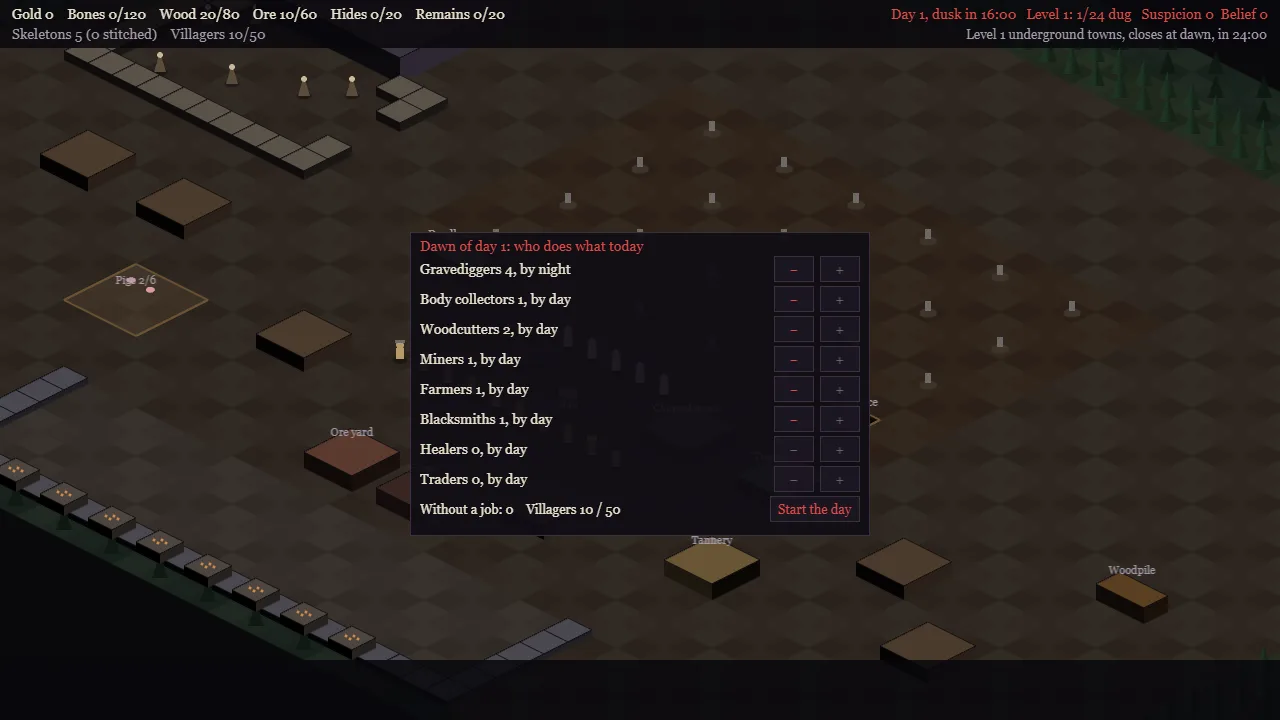
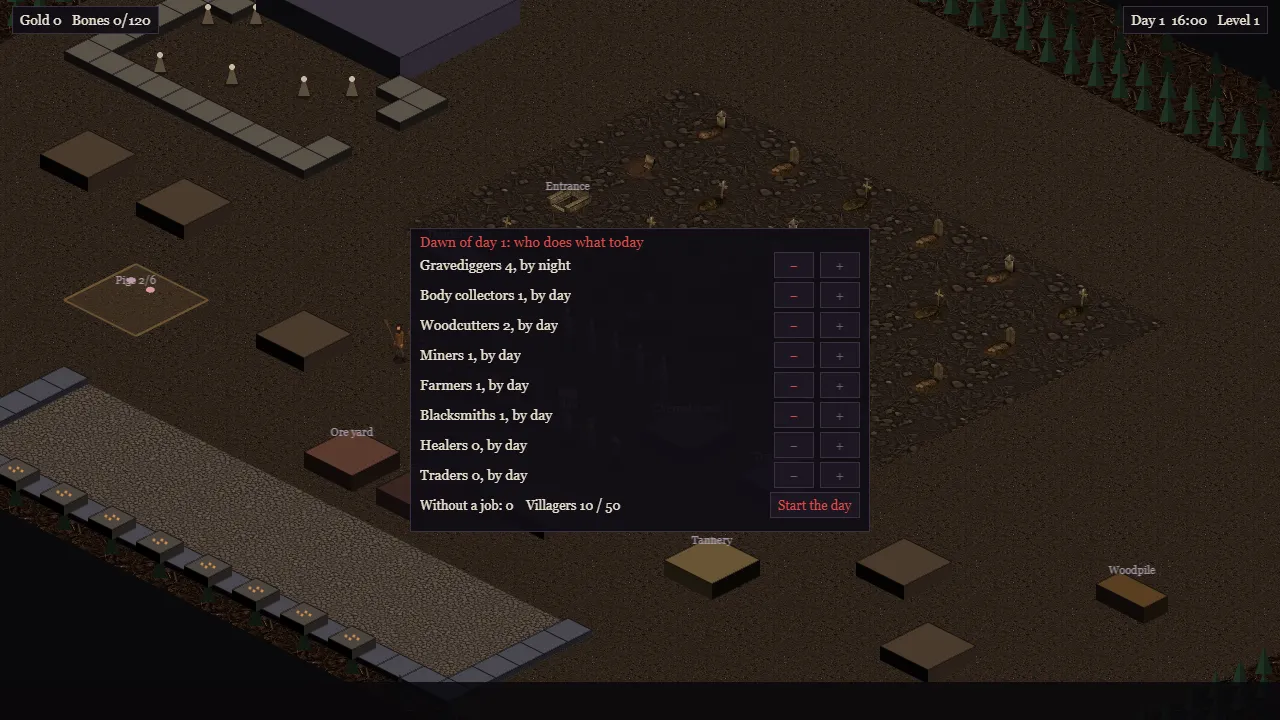
Add Assimilate to the games and bring the other three up to date
Assimilate, the new physics merge puzzler, gets a card on /projects between
The Village of Suffering and Life Detected, a teaser tile on the home page
and a footer link, with its own accent colour. It's a portrait game, so the
cover sets three captures of one live run side by side at 16:9; the gallery
adds a crop of the fuse twist and a labelled sheet of the fifteen tiers,
captioned as placeholder art.

Tethered Darkness now plays from start to finish: a new status, features
for its six regions and five endings, the route tool in the tech, and three
late-game shots (the Crowned Furnace, the Drowned Church, the Bell) in place
of the title screen, the marsh path and the churchyard.

The Village of Suffering's send-down and dawn shots are retaken with the new
HUD and painted ground, a night in the graveyard is added and the
places-below concept art dropped; new features cover the loot, the guide
and the difficulties.

Life Detected's site is now its first level, not a holding page: a new
genre (the look has moved past retro-plus), status, button and features,
and four captures of the live slice on WebGPU in place of the holding page.

Tests cover the Assimilate card, Life Detected's new button, all four
teaser tiles and the footer listing only the playable games.

diff --git a/assets/styles/app.css b/assets/styles/app.css
@@ -336,6 +336,11 @@ main {
     --game-accent: #d9434d;
 }
 
+.game-card--assimilate,
+.game-tile--assimilate {
+    --game-accent: #a78bfa;
+}
+
 .game-card--life-detected,
 .game-tile--life-detected {
     --game-accent: #ff8f3a;

diff --git a/src/Content/PortfolioContent.php b/src/Content/PortfolioContent.php
@@ -110,7 +110,7 @@ class PortfolioContent
                 'name' => 'Tethered Darkness',
                 'genre' => 'Gothic horror JRPG',
                 'status' => 'playable',
-                'statusLabel' => 'Playable now: regions 1–4 of 6',
+                'statusLabel' => 'Playable now: start to finish, final art in progress',
                 'hook' => 'Every grave in Hollowmere has a lantern, and the lanterns keep the dead below. Tonight they are going out.',
                 'pitch' => [
                     'A disgraced knight, an occultist and a church cantor are left on a fen jetty by a ferryman who won\'t wait. Up in Broodhollow the churchyard lanterns are dying, the dead are climbing out, and somewhere beneath the water a drowned bell screams each time another light fails. They follow the sound down.',
@@ -121,18 +121,19 @@ class PortfolioContent
                     ['title' => 'Real-time turn gauges', 'body' => 'Heroes and monsters fill their gauges in real time, so hesitating in a menu is a decision too.'],
                     ['title' => 'Learn from the dead', 'body' => 'The cantor Absorbs enemies to learn their skills and fill in the bestiary, the occultist steals, and the knight takes the hit for whoever needs it.'],
                     ['title' => 'No random battles', 'body' => 'Every enemy is on the map. Slip past the fights you don\'t want, or pick them for what they carry.'],
-                    ['title' => 'Secrets worth the dark', 'body' => 'Each of the first five regions hides an optional dungeon with a charm at the bottom. Find all five and the ending changes.'],
+                    ['title' => 'Six regions down', 'body' => 'From the fens through frozen wastes, jagged peaks, a sunless chasm and a foundry of lava, then back through a portal to a Hollowmere gone wrong, and down to whatever has been ringing.'],
+                    ['title' => 'Five endings', 'body' => 'At the bottom, a choice: silence the bell, or relight every lantern and choose who stays below to tend them. Each of the first five regions hides an optional dungeon with a charm, and finding all five changes what that choice costs.'],
                     ['title' => 'Plays anywhere', 'body' => 'Keyboard, gamepad or a touch D-pad on your phone, with cloud saves across three slots.'],
                 ],
-                'tech' => 'TypeScript, Phaser 4 and Vite, with every enemy, skill and item in JSON checked by Zod, and branching dialogue written in Ink. The battle engine is pure TypeScript with a seeded random generator and no Phaser imports, so a headless simulator can play any encounter thousands of times to balance it. Accounts and cloud saves run on a small Symfony 8.1 API with MySQL, and every green push to main deploys itself through GitHub Actions.',
+                'tech' => 'TypeScript, Phaser 4 and Vite, with every enemy, skill and item in JSON checked by Zod, and branching dialogue written in Ink. The battle engine is pure TypeScript with a seeded random generator and no Phaser imports, so a headless simulator can play any encounter thousands of times, and a route tool plays each region in story order, carrying levels, gear and items from fight to fight, to balance every boss against the level a player really arrives at. Accounts and cloud saves run on a small Symfony 8.1 API with MySQL, and every green push to main deploys itself through GitHub Actions.',
                 'url' => 'https://tethered-darkness.proprietary-data.com',
                 'cta' => 'Play Tethered Darkness',
                 'images' => [
                     ['path' => 'images/portfolio/tethered-darkness/mire-widow.png', 'width' => 640, 'height' => 360, 'caption' => 'The first boss, the Mire Widow, with the party\'s turn gauges filling on the right.'],
                     ['path' => 'images/portfolio/tethered-darkness/ferryman.png', 'width' => 640, 'height' => 360, 'caption' => 'Hollowmere Marsh: the ferryman leaves the party with lamp oil and a warning.'],
-                    ['path' => 'images/portfolio/tethered-darkness/drowned-churchyard.png', 'width' => 640, 'height' => 360, 'caption' => 'The Drowned Churchyard: ghouls and a lantern-bearing ghost.'],
-                    ['path' => 'images/portfolio/tethered-darkness/marsh-path.png', 'width' => 640, 'height' => 360, 'caption' => 'The marsh path at night, lit only by what the lanterns reach.'],
-                    ['path' => 'images/portfolio/tethered-darkness/title-screen.png', 'width' => 640, 'height' => 360, 'caption' => 'The title screen.'],
+                    ['path' => 'images/portfolio/tethered-darkness/crowned-furnace.png', 'width' => 640, 'height' => 360, 'caption' => 'Region 5, the Abyssal Foundry: the Crowned Furnace rises out of the magma in the Crucible.'],
+                    ['path' => 'images/portfolio/tethered-darkness/drowned-church.png', 'width' => 640, 'height' => 360, 'caption' => 'The Drowned Church, a church under the church, on the way down to the end.'],
+                    ['path' => 'images/portfolio/tethered-darkness/the-bell.png', 'width' => 640, 'height' => 360, 'caption' => 'The last battle: the Bell, hanging in its chains over black water.'],
                 ],
             ],
             [
@@ -152,41 +153,73 @@ class PortfolioContent
                     ['title' => 'Bring your own light', 'body' => 'Armies below see only by their light keeper\'s torch or lantern. Lose it and your skeletons fight half-blind.'],
                     ['title' => 'Trouble from above', 'body' => 'The church next door is watching. Dig up too many of its dead and suspicion becomes a mob, while the Red Cardinal steals corpses from your ranks.'],
                     ['title' => 'Every villager counts', 'body' => 'One small pool of villagers is split across eight jobs each dawn. The dead never come back, but they rise into your army with a perk from the trade they died in.'],
-                    ['title' => 'Phone-ready', 'body' => 'Play with a mouse, or on a phone held sideways with tap, drag, pinch and box-select.'],
+                    ['title' => 'Loot worth going deeper for', 'body' => 'Four tiers of every weapon and armour piece at the forge, gems with rolled affixes from the deepest lairs and sockets to set them in, and a trading post that sells on credit until dawn.'],
+                    ['title' => 'Teaches itself, plays anywhere', 'body' => 'A guide takes new players through their first three days a prompt at a time, then first-time hints take over. Play with a mouse, or on a phone held sideways with tap, drag, pinch and box-select, on Gentle, Grim or Merciless.'],
                 ],
-                'tech' => 'TypeScript and Phaser 4 over a simulation in plain TypeScript that runs on a fixed tick with a seeded random generator, so any fight can be replayed exactly. Isometric is only how it\'s drawn: the rules work on a simple grid with A* pathfinding. Bones, organs, demons and difficulty all live in JSON, and a scripted player plays whole seasons inside the test suite to check the balance. The art pipeline renders characters from 3D models in Blender as separate layers (bones, flesh, armour, weapons) in eight directions and stacks them at runtime, the way Diablo II did. Saves use the same Symfony API as Tethered Darkness.',
+                'tech' => 'TypeScript and Phaser 4 over a simulation in plain TypeScript that runs on a fixed tick with a seeded random generator, so any fight can be replayed exactly. Isometric is only how it\'s drawn: the rules work on a simple grid with A* pathfinding. Bones, organs, demons, gear and difficulty all live in JSON, and a scripted player plays whole seasons on every difficulty inside the test suite to check the balance. The art pipeline renders characters from 3D models in Blender as separate layers (bones, flesh, armour, weapons) in eight directions and stacks them at runtime, the way Diablo II did, while the village itself is painted in ComfyUI over Blender blockouts. Saves use the same Symfony API as Tethered Darkness.',
                 'url' => 'https://village-of-suffering.proprietary-data.com',
                 'cta' => 'Play The Village of Suffering',
                 'images' => [
                     ['path' => 'images/portfolio/village-of-suffering/concept-art.png', 'width' => 640, 'height' => 322, 'caption' => 'Concept art, made locally with SDXL: the army, the demons, the plague doctor, the Red Cardinal, a necromancer and the graveyard.'],
-                    ['path' => 'images/portfolio/village-of-suffering/send-down.png', 'width' => 640, 'height' => 360, 'caption' => 'The playable build: fitting the first army with a lantern before sending it below.'],
-                    ['path' => 'images/portfolio/village-of-suffering/dawn-jobs.png', 'width' => 640, 'height' => 360, 'caption' => 'Dawn of day one: who digs, who fetches the dead, who works the forge.'],
-                    ['path' => 'images/portfolio/village-of-suffering/places-below.png', 'width' => 640, 'height' => 322, 'caption' => 'Concept art for the places below and around the village: caves, dungeons, catacombs, the hellish depths, the church and the forge.'],
+                    ['path' => 'images/portfolio/village-of-suffering/send-down.png', 'width' => 640, 'height' => 360, 'caption' => 'The playable build: fitting the first army with a lantern before sending it below, on the newly painted graveyard.'],
+                    ['path' => 'images/portfolio/village-of-suffering/night-graveyard.png', 'width' => 640, 'height' => 360, 'caption' => 'Night one: gravediggers at work by lantern light, with the first skeletons standing by.'],
+                    ['path' => 'images/portfolio/village-of-suffering/dawn-jobs.png', 'width' => 640, 'height' => 360, 'caption' => 'Dawn of day one: who digs, who fetches the dead, who works the forge and who trades.'],
                     ['path' => 'images/portfolio/village-of-suffering/skeleton-layers.png', 'width' => 640, 'height' => 240, 'caption' => 'The Blender sprite test: one skeleton in eight directions, with armour and weapons swapped in as layers.'],
+                ],
+            ],
+            [
+                'slug' => 'assimilate',
+                'name' => 'Assimilate',
+                'genre' => 'Physics merge puzzler',
+                'status' => 'playable',
+                'statusLabel' => 'Playable now: final art and sound to come',
+                'hook' => 'Two of a kind that touch assimilate into the next thing up. It\'s fifteen steps from a heart to Nanna.',
+                'pitch' => [
+                    'Drop things into the jar. Two of a kind that touch become one of the next thing up: hearts into leaves, kiwis into cats, cats into things with too many eyes, all the way up to Nanna. The pile only grows, and the run is over when it stays above the line for two seconds.',
+                    'It\'s the merge game you know, with rot in it. Anything left a minute lights a fuse and burns out into a dead black block, and a black block left five minutes explodes and throws the jar about. You can\'t nurse one old stack for ever: the longer a piece sits, the more of a problem it becomes.',
+                ],
+                'features' => [
+                    ['title' => 'Fifteen tiers', 'body' => 'A heart, cannabis leaves, a kiwi, four breeds of cat and some grotesques, up through the Assimilator to Nanna. Merge two Nannas and both vanish for a bonus.'],
+                    ['title' => 'Fuses and black blocks', 'body' => 'Pieces age from the moment they land. Merge one before its fuse runs out or it dies as a black block, which only merges with another of its kind to come back to life.'],
+                    ['title' => 'Explosions', 'body' => 'A black block left five minutes goes off, scoring nothing and throwing everything near it outward, sometimes over the line.'],
+                    ['title' => 'Chains that pop', 'body' => 'Each merge within 0.6 seconds of the last builds a combo worth up to three times the points, and bigger merges pop harder, shoving the pile into a new shape.'],
+                    ['title' => 'One thumb', 'body' => 'A portrait game made for phones: aim and drop with a thumb, a mouse or the keys.'],
+                ],
+                'tech' => 'TypeScript and Phaser 3 for drawing, input and scaling, over a rules engine in plain TypeScript on Matter.js, used directly rather than through Phaser\'s plugin, so Vitest plays whole runs headless and any run replays from its seed. Merges are found by measuring after each physics step instead of waiting for collision events, because Matter\'s circles are polygons that can rest a pixel apart while looking touching. Every tuning value lives in one file, with a bot playing seeded runs at three paces to tune it. The placeholder art is fifteen subjects drawn in code as SVG and packed into a WebP atlas, the sound and music are synthesised with Web Audio, and every green push deploys itself.',
+                'url' => 'https://assimilate.proprietary-data.com',
+                'cta' => 'Play Assimilate',
+                'images' => [
+                    ['path' => 'images/portfolio/assimilate/a-run.png', 'width' => 640, 'height' => 360, 'caption' => 'Three moments on the live build: aiming at a match, two Tentacles assimilating into a Siamese, and the jar overflowing.'],
+                    ['path' => 'images/portfolio/assimilate/black-blocks.png', 'width' => 640, 'height' => 360, 'caption' => 'The Siamese\'s fuse is nearly out (the red arc), and the pieces around it have already died as black blocks, each with five minutes on its clock.'],
+                    ['path' => 'images/portfolio/assimilate/fifteen-tiers.png', 'width' => 640, 'height' => 424, 'caption' => 'All fifteen tiers, from a heart to Nanna: placeholder art drawn in code, each subject on a disc of its own colour so it still reads at 28 pixels.'],
                 ],
             ],
             [
                 'slug' => 'life-detected',
                 'name' => 'Life Detected',
-                'genre' => 'Retro-plus first-person shooter',
+                'genre' => 'Sci-fi horror first-person shooter',
                 'status' => 'in-development',
-                'statusLabel' => 'In development: building the first level',
+                'statusLabel' => 'In development: the first level is playable',
                 'hook' => 'A motion tracker you listen to, and corridors darker than they should be.',
                 'pitch' => [
                     'You hear it before you see it. The tracker sweeps once a second, and every ping shows movement, never walls: something is in here with you, and you can\'t tell where the room ends. Creatures give themselves away by sound first, so the audio isn\'t decoration. It\'s the level design.',
-                    'It\'s built the way the best mid-90s shooters were, where every level has a job to do, not just an exit to find: get the keycard, destroy the nest, bring the survivors out, with a briefing going in and a tally on the way out. Low-poly models under modern lighting keep that 1996 feel, and the shadows do the frightening.',
+                    'It\'s built the way the best mid-90s shooters were, where every level has a job to do, not just an exit to find: get the keycards, destroy the nests, bring the survivors out, with a briefing going in and a tally on the way out. The look aims well past the era: sculpted creatures, scanned materials and a torch that throws real shadows, somewhere between Doom 3 and the 2016 Doom.',
                 ],
                 'features' => [
-                    ['title' => 'The motion tracker', 'body' => 'A sweep and a ping every second, with blips fading between sweeps, so you\'re always acting on a picture that\'s already out of date.'],
-                    ['title' => 'Objectives, not just exits', 'body' => 'Two to four objectives per level, from keycards to nests to rescues, with progress you can check mid-mission.'],
+                    ['title' => 'The motion tracker', 'body' => 'A sweep and a ping every second, with blips fading between sweeps, so you\'re always acting on a picture that\'s already out of date. Hold it up and the gun goes away.'],
+                    ['title' => 'Objectives, not just exits', 'body' => 'Two to four objectives per level, with progress you can check mid-mission. The first wants two keycards found and sixteen sacs destroyed before the exit lets you leave.'],
+                    ['title' => 'Things that hatch', 'body' => 'Sacs rooted into the floor open as you come near and hatch a parasite that leaps for you. Grunts, flayed miners, hunt you through the corridors and open doors.'],
                     ['title' => 'Your torch is the main light', 'body' => 'A shadow-casting flashlight, fog and glow over corridors that are dark on purpose.'],
-                    ['title' => 'Instant to play', 'body' => 'Runs in the browser with the first level under 15 MB, on WebGPU where it\'s available and WebGL 2 everywhere else.'],
+                    ['title' => 'Instant to play', 'body' => 'Runs in the browser on WebGPU where it\'s available and WebGL 2 everywhere else, with keyboard and mouse or a gamepad.'],
                 ],
-                'tech' => 'Three.js with its WebGPU renderer and automatic WebGL 2 fallback, over a pure TypeScript engine stepping at a fixed 60 Hz with a seeded random generator, so Vitest can play whole levels with no browser at all. Hand-built grid levels in JSON checked by Zod, grid collision and A* for the creatures, and a scripted Blender and ComfyUI pipeline for the corridor kit and textures, compressed with meshopt and KTX2. One finished level goes in front of playtesters before the campaign gets built.',
+                'tech' => 'Three.js with its WebGPU renderer and automatic WebGL 2 fallback, over a pure TypeScript engine stepping at a fixed 60 Hz with a seeded random generator, so a Vitest bot plays the first level from briefing to tally with no browser at all. Hand-built grid levels in JSON checked by Zod, and grid collision and A* for the creatures. The grunt is sculpted by script on a MakeHuman body in Blender, baked onto a game mesh with normal maps and rigged; the walls and floors are scanned CC0 materials packed as KTX2. The first level goes in front of playtesters before the campaign gets built.',
                 'url' => 'https://life-detected.proprietary-data.com',
-                'cta' => 'See the holding page',
+                'cta' => 'Play the first level',
                 'images' => [
-                    ['path' => 'images/portfolio/life-detected/holding-page.png', 'width' => 640, 'height' => 195, 'caption' => 'The holding page, while the motion tracker is still calibrating.'],
+                    ['path' => 'images/portfolio/life-detected/grunt-lunges.png', 'width' => 640, 'height' => 360, 'caption' => 'The grunt, remade: a flayed miner sculpted on a MakeHuman body, lunging out of the dark.'],
+                    ['path' => 'images/portfolio/life-detected/north-lamp.png', 'width' => 640, 'height' => 360, 'caption' => 'A grunt waiting under a ceiling lamp in the derelict lab.'],
+                    ['path' => 'images/portfolio/life-detected/tracker.png', 'width' => 640, 'height' => 360, 'caption' => 'Tracker up, gun away: the blip is a metre off, and the screen is already red.'],
+                    ['path' => 'images/portfolio/life-detected/briefing.png', 'width' => 640, 'height' => 360, 'caption' => 'The briefing: two keycards, sixteen sacs, then the exit.'],
                 ],
             ],
         ];

diff --git a/tests/Controller/SiteControllerTest.php b/tests/Controller/SiteControllerTest.php
@@ -46,7 +46,11 @@ class SiteControllerTest extends WebTestCase
         self::assertSelectorExists('#tethered-darkness a.button[href="https://tethered-darkness.proprietary-data.com"]');
         self::assertSelectorTextContains('#village-of-suffering h3', 'The Village of Suffering');
         self::assertSelectorExists('#village-of-suffering a.button[href="https://village-of-suffering.proprietary-data.com"]');
+        self::assertSelectorTextContains('#assimilate h3', 'Assimilate');
+        self::assertSelectorTextContains('#assimilate .game-card__status', 'Playable now');
+        self::assertSelectorExists('#assimilate a.button--game[href="https://assimilate.proprietary-data.com"]');
         self::assertSelectorTextContains('#life-detected .game-card__status', 'In development');
+        self::assertSelectorTextContains('#life-detected a.button[href="https://life-detected.proprietary-data.com"]', 'Play the first level');
         self::assertSelectorTextContains('#web-apps h2', 'Web apps');
         self::assertSelectorExists('#web-apps #miniature-collection-tracker');
         self::assertSelectorExists('#web-apps #cyoa-builder');
@@ -58,9 +62,18 @@ class SiteControllerTest extends WebTestCase
         $client->request('GET', '/');
 
         self::assertResponseIsSuccessful();
-        foreach (['tethered-darkness', 'village-of-suffering', 'life-detected'] as $slug) {
+        foreach (['tethered-darkness', 'village-of-suffering', 'assimilate', 'life-detected'] as $slug) {
             self::assertSelectorExists(sprintf('.games-teaser a[href="/projects#%s"]', $slug));
         }
+    }
+
+    public function testFooterListsOnlyThePlayableGames(): void
+    {
+        $client = static::createClient();
+        $client->request('GET', '/');
+
+        self::assertSelectorExists('.site-footer__projects a[href="https://assimilate.proprietary-data.com"]');
+        self::assertSelectorNotExists('.site-footer__projects a[href="https://life-detected.proprietary-data.com"]');
     }
 
     public function testSitemapListsPublicRoutes(): void

diff --git a/content/copy.md b/content/copy.md
@@ -73,18 +73,19 @@ per card.
 
 (Add more entries here as more subdomain projects go live.)
 
-### Games (added 2026-10-15)
+### Games (added 2026-10-15, updated 2026-10-18)
 Shown first on `/projects` under their own "Games" heading, with a teaser row on the home page.
 Each sells the concept first (hook, pitch, features), then the engineering ("Under the hood").
-Screenshots are real captures of the live builds, except where a caption says concept art.
+Screenshots are real captures of the live builds, except where a caption says concept art or
+placeholder art.
 
-**Section intro**: Three original games for the browser, each designed, written and shipped by
-me, from the first greybox to the deploy pipeline. Two are playable right now: no download, no
-install, just click and play. They're also where I push the habits I bring to client work: game
-rules in pure, tested TypeScript kept apart from the rendering, content in validated data files
-instead of code, and CI that ships every green push.
+**Section intro**: Four original games for the browser, each designed, written and shipped by
+me, from the first greybox to the deploy pipeline. Three are playable right now and the fourth
+has its first level up: no download, no install, just click and play. They're also where I push
+the habits I bring to client work: game rules in pure, tested TypeScript kept apart from the
+rendering, content in validated data files instead of code, and CI that ships every green push.
 
-#### Tethered Darkness — gothic horror JRPG (playable: regions 1–4 of 6)
+#### Tethered Darkness — gothic horror JRPG (playable: start to finish, final art in progress)
 - **Hook**: Every grave in Hollowmere has a lantern, and the lanterns keep the dead below.
   Tonight they are going out.
 - **Pitch**: A disgraced knight, an occultist and a church cantor are left on a fen jetty by a
@@ -96,10 +97,13 @@ instead of code, and CI that ships every green push.
   the light costs you.
 - **Features**: light is a resource (lantern oil, unlit floors make monsters 20% stronger) ·
   real-time turn gauges · learn from the dead (Absorb, Steal, Guard) · no random battles ·
-  five hidden charms change the ending · keyboard, gamepad or touch, cloud saves in 3 slots.
+  six regions down (fens, ice, peaks, chasm, lava foundry, Hollowmere gone wrong) · five endings
+  from one choice at the bottom, with five hidden charms changing what it costs · keyboard,
+  gamepad or touch, cloud saves in 3 slots. Don't reveal who the ferryman really is.
 - **Under the hood**: TypeScript, Phaser 4, Vite, Zod-checked JSON, Ink dialogue; pure-TS battle
-  engine with a seeded RNG and a headless simulator for balancing; Symfony 8.1 API + MySQL for
-  accounts and saves; GitHub Actions deploys every green push.
+  engine with a seeded RNG and a headless simulator for balancing, plus a route tool that plays
+  each region in story order carrying levels and gear; Symfony 8.1 API + MySQL for accounts and
+  saves; GitHub Actions deploys every green push.
 - **Links**: https://tethered-darkness.proprietary-data.com · images in
   `public/images/portfolio/tethered-darkness/`
 
@@ -115,30 +119,59 @@ instead of code, and CI that ships every green push.
   twenty-fifth level wakes up and notices you.
 - **Features**: build your army from the dead (6–12 bones, organs, flesh, armour) · a new
   dungeon every dawn, stranded armies dig out · bring your own light · the church, the mob and
-  the Red Cardinal · eight jobs, dead villagers rise with a perk · phone-ready touch controls.
+  the Red Cardinal · eight jobs, dead villagers rise with a perk · loot worth going deeper for
+  (four gear tiers, gems and sockets, a trading post) · a guide for the first three days, then
+  hints; mouse or phone; Gentle, Grim or Merciless.
 - **Under the hood**: TypeScript, Phaser 4; fixed-tick seeded simulation on a grid with A*,
-  isometric only in rendering; all content in JSON; a scripted player balances whole seasons in
-  the test suite; layered Blender sprites in 8 directions; the same Symfony save API.
+  isometric only in rendering; all content in JSON; a scripted player balances whole seasons on
+  every difficulty in the test suite; layered Blender sprites in 8 directions; the village painted
+  in ComfyUI over Blender blockouts; the same Symfony save API.
 - **Links**: https://village-of-suffering.proprietary-data.com · images in
   `public/images/portfolio/village-of-suffering/` (concept art is SDXL, made locally, and
   captioned as such)
 
-#### Life Detected — retro-plus first-person shooter (in development)
+#### Assimilate — physics merge puzzler (playable: final art and sound to come; added 2026-10-18)
+- **Hook**: Two of a kind that touch assimilate into the next thing up. It's fifteen steps from a
+  heart to Nanna.
+- **Pitch**: Drop things into the jar. Two of a kind that touch become one of the next thing up:
+  hearts into leaves, kiwis into cats, cats into things with too many eyes, all the way up to
+  Nanna. The pile only grows, and the run is over when it stays above the line for two seconds.
+  / It's the merge game you know, with rot in it. Anything left a minute lights a fuse and burns
+  out into a dead black block, and a black block left five minutes explodes and throws the jar
+  about. You can't nurse one old stack for ever: the longer a piece sits, the more of a problem
+  it becomes.
+- **Features**: fifteen tiers (heart, cannabis leaves, kiwi, four cats, grotesques, the
+  Assimilator, Nanna; two Nannas vanish for a bonus) · fuses and black blocks · black blocks
+  explode after five minutes · combos (0.6 s, up to 3x) and merges that pop harder · one thumb.
+- **Under the hood**: TypeScript, Phaser 3 for drawing and input, rules on Matter.js used
+  directly in plain TypeScript; Vitest plays whole runs headless and runs replay from a seed;
+  merges found by measuring after each step (Matter's polygon circles rest apart); one tuning
+  file and a bot at three paces; placeholder art drawn in code as SVG into a WebP atlas; Web
+  Audio synthesis; GitHub Actions deploys every green push.
+- **Links**: https://assimilate.proprietary-data.com · images in
+  `public/images/portfolio/assimilate/` (the cover is three portrait captures side by side; the
+  tier sheet is built from the game's own placeholder masters and captioned as such)
+
+#### Life Detected — sci-fi horror first-person shooter (in development: first level playable)
 - **Hook**: A motion tracker you listen to, and corridors darker than they should be.
 - **Pitch**: You hear it before you see it. The tracker sweeps once a second, and every ping
   shows movement, never walls: something is in here with you, and you can't tell where the room
   ends. Creatures give themselves away by sound first, so the audio isn't decoration. It's the
   level design. / It's built the way the best mid-90s shooters were, where every level has a job
-  to do, not just an exit to find: get the keycard, destroy the nest, bring the survivors out,
-  with a briefing going in and a tally on the way out. Low-poly models under modern lighting
-  keep that 1996 feel, and the shadows do the frightening.
-- **Features**: the motion tracker · objectives, not just exits · the torch is the main light ·
-  instant to play (first level under 15 MB, WebGPU with WebGL 2 fallback).
+  to do, not just an exit to find: get the keycards, destroy the nests, bring the survivors out,
+  with a briefing going in and a tally on the way out. The look aims well past the era: sculpted
+  creatures, scanned materials and a torch that throws real shadows, somewhere between Doom 3
+  and the 2016 Doom.
+- **Features**: the motion tracker (gun or tracker, never both) · objectives, not just exits
+  (the first level: two keycards, sixteen sacs, the exit) · things that hatch (sacs, parasites,
+  grunts that hunt and open doors) · the torch is the main light · instant to play (WebGPU with
+  WebGL 2 fallback, keyboard and mouse or gamepad). Touch controls are being built: don't claim
+  them until they ship.
 - **Under the hood**: Three.js WebGPU renderer; pure-TS engine at a fixed 60 Hz with a seeded
-  RNG and headless Vitest playthroughs; Zod-checked grid levels; A* creatures; scripted Blender
-  and ComfyUI asset pipeline with meshopt and KTX2; one finished level is playtested before the
-  campaign.
-- **Links**: https://life-detected.proprietary-data.com (holding page) · image in
+  RNG, and a Vitest bot that plays the first level from briefing to tally; Zod-checked grid
+  levels; A* creatures; the grunt sculpted by script on a MakeHuman body in Blender, baked and
+  rigged; scanned CC0 materials as KTX2; the first level is playtested before the campaign.
+- **Links**: https://life-detected.proprietary-data.com (the first level) · images in
   `public/images/portfolio/life-detected/`
 
 ## Experience & Education

diff --git a/docs/portfolio-plan.md b/docs/portfolio-plan.md
@@ -70,6 +70,27 @@ Everything left uncommitted in git, as usual, pending explicit go-ahead to commi
   start the `Battle` scene with any encounter id. The Village of Suffering concept art is SDXL,
   made locally, and its captions say so.
 
+## Games Update — DONE (2026-10-18)
+- **Assimilate added** (physics merge puzzler, playable) between The Village of Suffering and
+  Life Detected, with its own accent colour, a home teaser tile and a footer link. Assimilate is
+  portrait, so its cover is three 540 × 960 captures of the live build side by side at 16:9;
+  the gallery has a 16:9 crop of the jar and a labelled sheet of the fifteen tiers built from the
+  game's placeholder masters (`art/masters/`), captioned as placeholder art. Live hook:
+  `?test&seed=N` exposes `window.assimilate` (`place`, `drop`, `fast`, `restart`, `state`).
+- **Tethered Darkness** now plays start to finish (six regions, five endings): new status,
+  features and tech, and late-game captures (the Crowned Furnace, the Drowned Church, the Bell)
+  from the dev server with the party raised by `levelUp` to a fitting level. Keep the ferryman's
+  secret out of the copy.
+- **The Village of Suffering**: send-down and dawn-jobs re-shot on the live build with the new
+  HUD and painted ground, plus a night in the graveyard; features for loot, the guide and
+  difficulties; the places-below concept art dropped to keep the gallery to one row.
+- **Life Detected**: the live site is the first level now, not a holding page. New genre (the
+  look moved past retro-plus), status, CTA and features; captures of the live slice on the real
+  GPU (Windows Node, WebGPU) without `&debug`, using `?test&seed=1&start=x,z,facing` and
+  `&still` (grunts blind and deaf) as `~/ld-shot/grunt.mjs` does.
+- **Tests**: the Assimilate card and button, Life Detected's new button, all four teaser tiles,
+  and the footer listing only the playable games.
+
 ## Backend & Templates — DONE (2026-09-13)
 Build Order step 4. All six public pages are real Symfony routes rendering Twig, backed by content pulled from `content/copy.md` via a small `App\Content\PortfolioContent` service (injected everywhere as the Twig global `content`, and directly in controllers for page-specific data).
 
